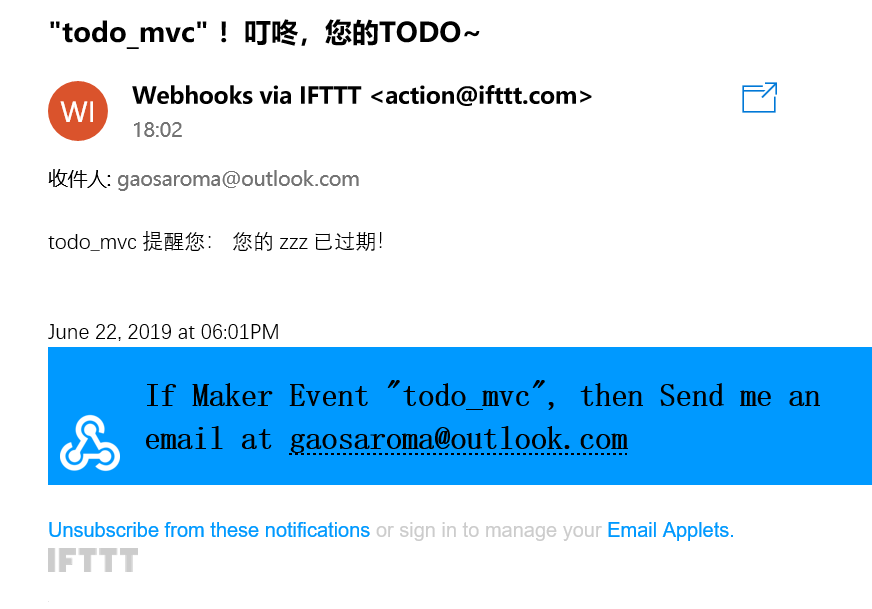
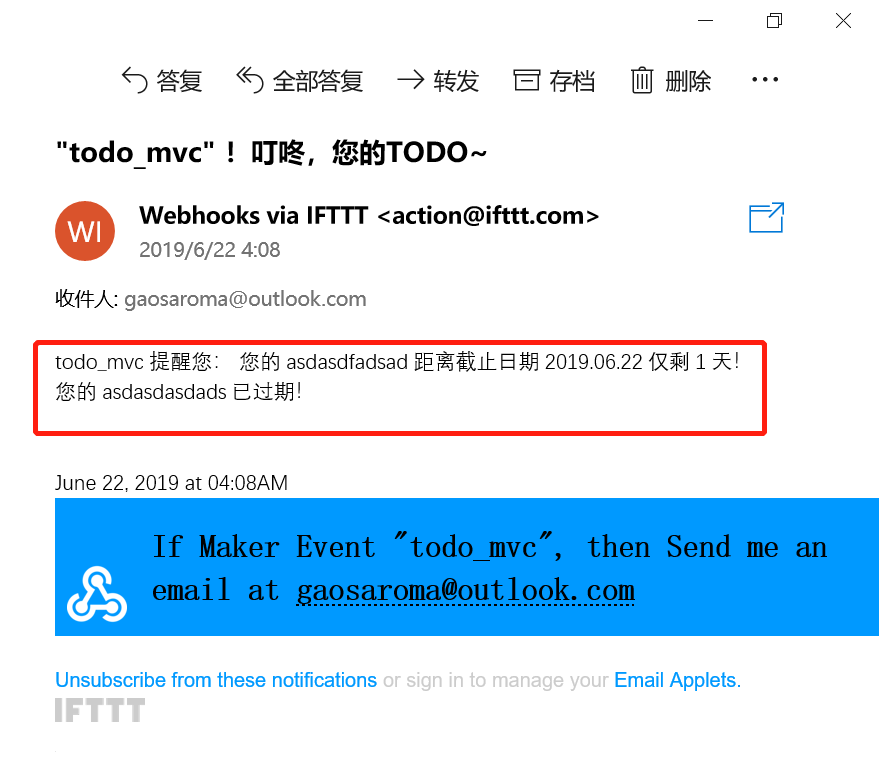
update png

diff --git a/README.md b/README.md
@@ -6,7 +6,7 @@
 
 ### 0.0 页面展示
 
-![](pic/cover.png)
+![]()
 
 ### 1.0 MVC框架
 
@@ -35,7 +35,13 @@ b)      增加**日历**，并且TODO以**甘特图**展示，没有用开源日
 
 c)      使用**IFTTT**，TODO过期或邻近截止日期，给自己发送邮件；
 
-	- ifttt.js
+ - ifttt.js
+
+   | 邮件列表示例                                                 | 邮件内容示例                                                 |
+   | ------------------------------------------------------------ | ------------------------------------------------------------ |
+   | ![](https://github.com/GaoChongwen/web_final_project/blob/master/pic/ifttt.png?raw=true) | ![](https://github.com/GaoChongwen/web_final_project/blob/master/pic/ifttt1.png?raw=true) |
+
+   
 
 d)      **移动端适配**，css以rem设置布局，初始化时调整根字体大小；
 
